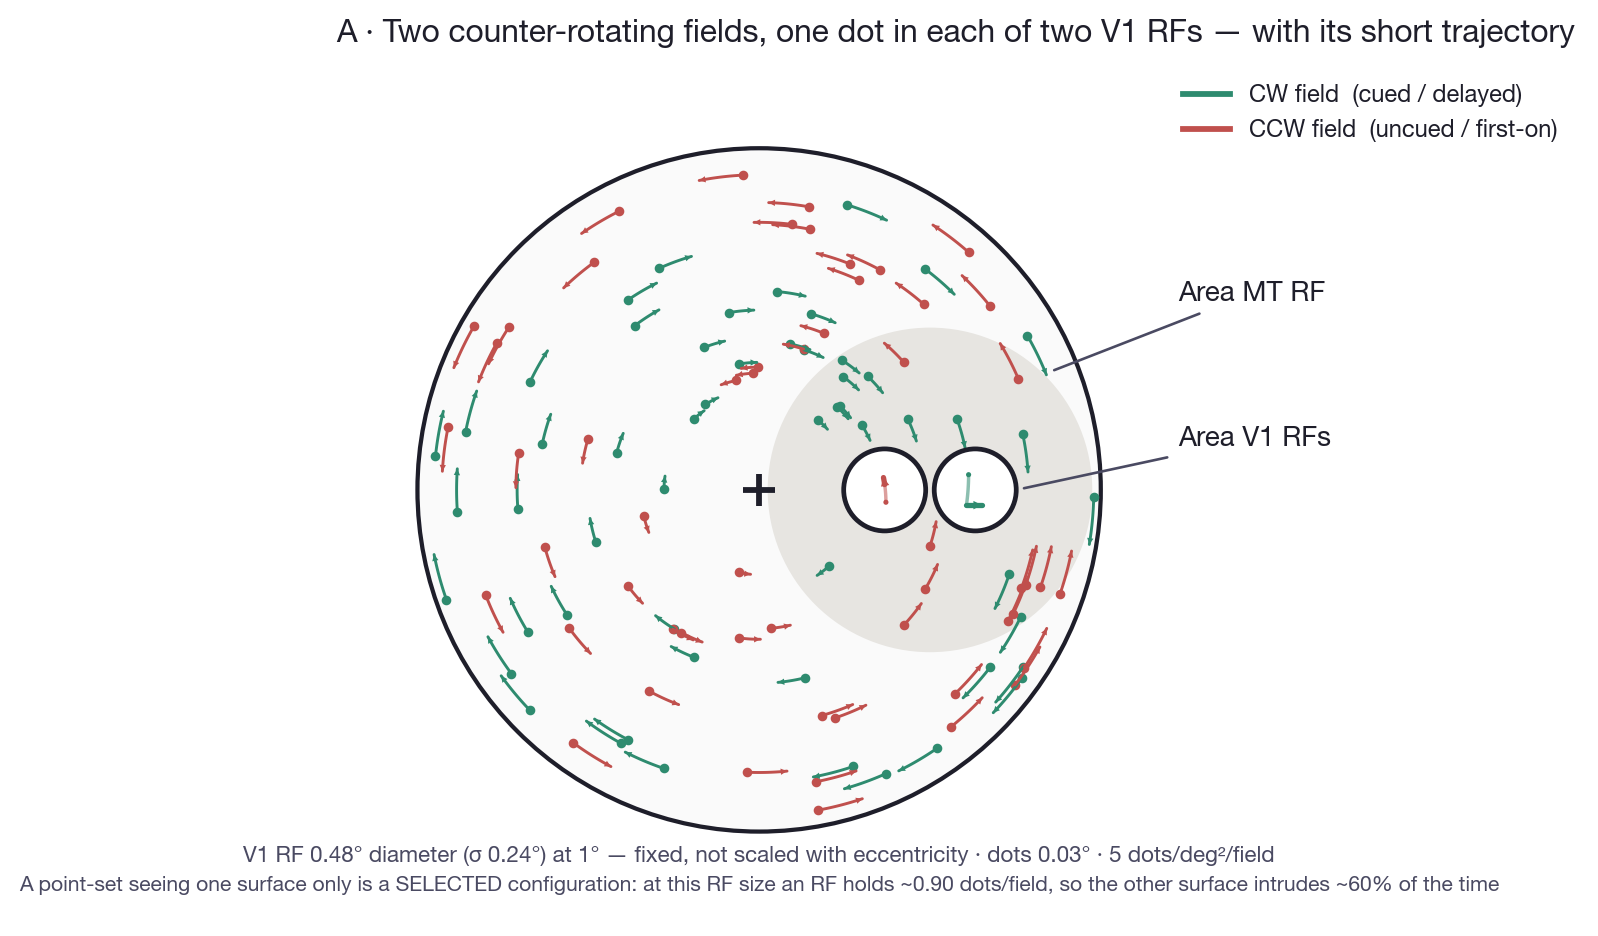
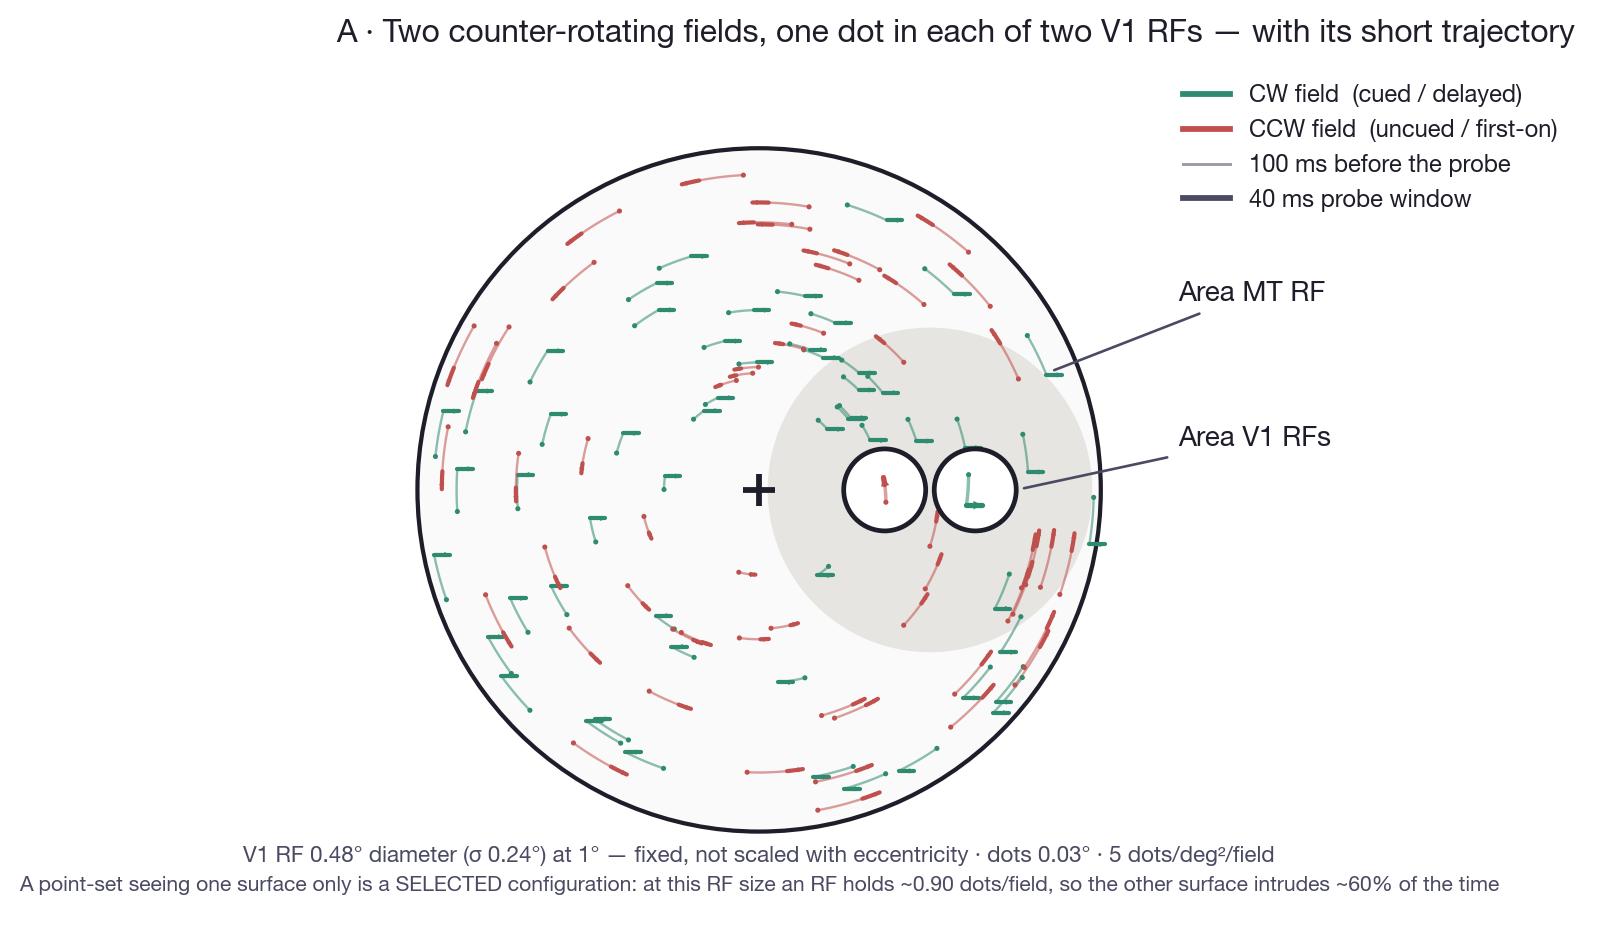
One trajectory convention for every dot in A, inside and outside the RFs
GS: show the dot trajectories in A, both inside and outside the RFs.

Before, A used two different conventions without saying so: the two dots inside
the RFs showed PRE_MS rotation + TRANS_MS probe, while the whole surrounding
field showed only a bare 100 ms rotation arc and never the probe at all. And the
"static" variant was not static outside the RFs — the background still carried
motion arcs.

Now a single `_dot_trajectory(p0, sense, translates)` defines the path for every
dot in the figure. `_rf_trajectory` is that same function plus re-centring, which
only the two selected dots get; background dots sit where they actually fall.
`_draw_trajectory` renders all of them, so line-weight and the pre/probe
distinction cannot drift between the two groups.

  ps_two_rf_A_static.png   genuinely static now — dots only, nothing moving
  ps_two_rf_A_traj.png     every dot carries 100 ms rotation + 40 ms probe

The payoff is that the probe event is now visible as an event: the CUED (green)
field turns rightward EVERYWHERE at once, the UNCUED (red) field just keeps
rotating. That contrast was previously only inferable from the two dots in the
RFs. Legend gains the two segment styles when trajectories are shown.

Removed TRACE_MS and _arc_motion, both dead once every dot shares one path.

Not pushed — travelling.

diff --git a/Agents/Modeling/sb2010/ps_two_rf_figure.py b/Agents/Modeling/sb2010/ps_two_rf_figure.py
@@ -94,7 +94,6 @@ OMEGA_DEG_S  = 81.0
 PROBE_DEG_S  = 2.26
 PRE_MS       = 100.0                # pre-probe rotation shown (GS, 2026-08-18)
 TRANS_MS     = 40.0
-TRACE_MS     = 100.0                # trace length for the background field dots
 
 TRANSLATING_FIELD = "cued"          # "cued" (green) or "uncued" (red)
 
@@ -134,19 +133,6 @@ def _clear_of_rfs(pts, pad=0.05):
     return np.array(keep)
 
 
-def _arc_motion(ax, p, fix, sense, color, lw=1.7, head=8, sweep_deg=None):
-    p = np.asarray(p, float); fix = np.asarray(fix, float)
-    rvec = p - fix
-    R = np.hypot(*rvec)
-    th0 = np.degrees(np.arctan2(rvec[1], rvec[0]))
-    s = -1.0 if sense == "CW" else 1.0
-    ths = np.radians(np.linspace(th0, th0 + s * sweep_deg, 16))
-    xs = fix[0] + R * np.cos(ths); ys = fix[1] + R * np.sin(ths)
-    ax.plot(xs, ys, color=color, lw=lw, solid_capstyle="round", zorder=4)
-    ax.add_patch(FancyArrowPatch((xs[-2], ys[-2]), (xs[-1], ys[-1]),
-                 arrowstyle="-|>", mutation_scale=head, color=color, lw=0, zorder=4))
-
-
 def _rotation_path(p0, sense, ms, n=64):
     p0 = np.asarray(p0, float)
     R = np.hypot(*p0); th0 = np.arctan2(p0[1], p0[0])
@@ -163,24 +149,45 @@ def _translation_path(p0, ms, n=32, direction=(1.0, 0.0)):
     return p0[None, :] + ts * dist * d[None, :]
 
 
-def _rf_trajectory(rf_c, sense, translates):
-    """The dot's path through pre-probe rotation + probe, centred in its RF.
+def _dot_trajectory(p0, sense, translates):
+    """Any dot's path: PRE_MS of rigid rotation, then TRANS_MS of either the
+    rightward probe (if its field translates) or continued rotation.
 
-    Used by BOTH figures, so the short trajectory drawn at stimulus scale in A is
-    literally the same path B magnifies. Centring uses the minimum enclosing
-    circle (endpoints as diameter — the L's corner lies on it, Thales), which
-    gives symmetric margin; only the path's position in the RF is a display
-    choice, its shape is exact.
+    One definition for every dot in the figure — the two inside the RFs and the
+    whole surrounding field — so nothing in A can silently use a different
+    convention from anything else.
     """
-    pre = _rotation_path(rf_c, sense, PRE_MS)
+    pre = _rotation_path(p0, sense, PRE_MS)
     p_switch = pre[-1]
     during = (_translation_path(p_switch, TRANS_MS) if translates
               else _rotation_path(p_switch, sense, TRANS_MS))
+    return pre, during
+
+
+def _rf_trajectory(rf_c, sense, translates):
+    """`_dot_trajectory` re-centred on the RF, for the two selected dots.
+
+    Centring uses the minimum enclosing circle (endpoints as diameter — the L's
+    corner lies on it, Thales), which gives symmetric margin; only the path's
+    position in the RF is a display choice, its shape is exact. Background dots
+    are NOT re-centred — they sit where they actually fall.
+    """
+    pre, during = _dot_trajectory(rf_c, sense, translates)
     full = np.vstack([pre, during])
     shift = np.asarray(rf_c, float) - (full[0] + full[-1]) / 2.0
     pre, during = pre + shift, during + shift
     span = float(np.hypot(*(full[-1] - full[0]))) + DOT_DIAM_DEG
     return pre, during, span
+
+
+def _draw_trajectory(ax, pre, during, colour, lw_pre, lw_during, head, z):
+    """Thin pre-probe segment, thick probe segment, arrowhead at the end."""
+    ax.plot(pre[:, 0], pre[:, 1], color=colour, lw=lw_pre, alpha=0.55,
+            solid_capstyle="round", zorder=z)
+    ax.plot(during[:, 0], during[:, 1], color=colour, lw=lw_during,
+            solid_capstyle="round", zorder=z)
+    ax.add_patch(FancyArrowPatch(during[-2], during[-1], arrowstyle="-|>",
+                 mutation_scale=head, color=colour, lw=0, zorder=z))
 
 
 # ═════════════════════════════════════════════════ A — the stimulus ══
@@ -197,36 +204,38 @@ def fig_A(out="ps_two_rf_A.png", show_traj=False):
     ax.add_patch(Circle((ECC_DEG, 0.0), MT_R_DEG, facecolor="#e7e5e1",
                         edgecolor="none", zorder=1))
 
-    sweep = OMEGA_DEG_S * TRACE_MS / 1000.0
+    # THE SURROUNDING FIELD — same trajectory convention as the two in the RFs.
+    #   show_traj=False -> a true static snapshot: dots only, nothing moving
+    #   show_traj=True  -> every dot carries PRE_MS rotation + TRANS_MS probe
+    # So the whole probe event is visible: the CUED field turns rightward
+    # everywhere at once, the UNCUED field just keeps rotating.
     g = _clear_of_rfs(_field(N_DOTS, seed=11))
     r = _clear_of_rfs(_field(N_DOTS, seed=12))
-    for p in g:
-        ax.scatter(*p, s=7, color=GREEN, zorder=3)
-        _arc_motion(ax, p, (0, 0), "CW", GREEN, lw=1.1, head=6, sweep_deg=sweep)
-    for p in r:
-        ax.scatter(*p, s=7, color=RED, zorder=3)
-        _arc_motion(ax, p, (0, 0), "CCW", RED, lw=1.1, head=6, sweep_deg=sweep)
+    for pts, colour, sense, role in [(g, GREEN, "CW", "cued"),
+                                     (r, RED, "CCW", "uncued")]:
+        translates = (role == TRANSLATING_FIELD)
+        for p in pts:
+            if show_traj:
+                pre, during = _dot_trajectory(p, sense, translates)
+                _draw_trajectory(ax, pre, during, colour,
+                                 lw_pre=0.9, lw_during=1.6, head=5, z=3)
+            ax.add_patch(Circle(p, DOT_DIAM_DEG / 2, facecolor=colour,
+                                edgecolor="none", zorder=4))
 
     # the two V1 RFs, side by side, FIXED size
     for c in (RF_LEFT, RF_RIGHT):
         ax.add_patch(Circle(c, RF_R_DEG, facecolor=SURFACE, edgecolor=INK,
                             lw=1.8, zorder=6))
 
-    # one dot in each RF, at TRUE angular size.
-    #   show_traj=False -> a static snapshot: just the two dots
-    #   show_traj=True  -> the SAME short path B magnifies, drawn at stimulus scale
+    # the two selected dots, at TRUE angular size. Same convention as above; the
+    # only difference is that these paths are re-centred in their RF.
     for rf_c, colour, sense, role in [(RF_LEFT, RED, "CCW", "uncued"),
                                       (RF_RIGHT, GREEN, "CW", "cued")]:
         if show_traj:
             pre, during, _ = _rf_trajectory(rf_c, sense,
                                             role == TRANSLATING_FIELD)
-            ax.plot(pre[:, 0], pre[:, 1], color=colour, lw=1.3, alpha=0.55,
-                    solid_capstyle="round", zorder=7)
-            ax.plot(during[:, 0], during[:, 1], color=colour, lw=2.0,
-                    solid_capstyle="round", zorder=7)
-            ax.add_patch(FancyArrowPatch(during[-2], during[-1],
-                         arrowstyle="-|>", mutation_scale=8, color=colour,
-                         lw=0, zorder=7))
+            _draw_trajectory(ax, pre, during, colour,
+                             lw_pre=1.3, lw_during=2.0, head=8, z=7)
             head = pre[0]
         else:
             head = rf_c
@@ -246,7 +255,11 @@ def fig_A(out="ps_two_rf_A.png", show_traj=False):
 
     ax.legend(handles=[
         Line2D([0], [0], color=GREEN, lw=2.2, label="CW field  (cued / delayed)"),
-        Line2D([0], [0], color=RED, lw=2.2, label="CCW field  (uncued / first-on)")],
+        Line2D([0], [0], color=RED, lw=2.2, label="CCW field  (uncued / first-on)")]
+        + ([Line2D([0], [0], color=INK2, lw=1.1, alpha=0.55,
+                   label=f"{PRE_MS:g} ms before the probe"),
+            Line2D([0], [0], color=INK2, lw=2.2,
+                   label=f"{TRANS_MS:g} ms probe window")] if show_traj else []),
         loc="upper right", frameon=False, fontsize=9)
 
     sub = ("one dot in each of two V1 RFs — with its short trajectory" if show_traj
